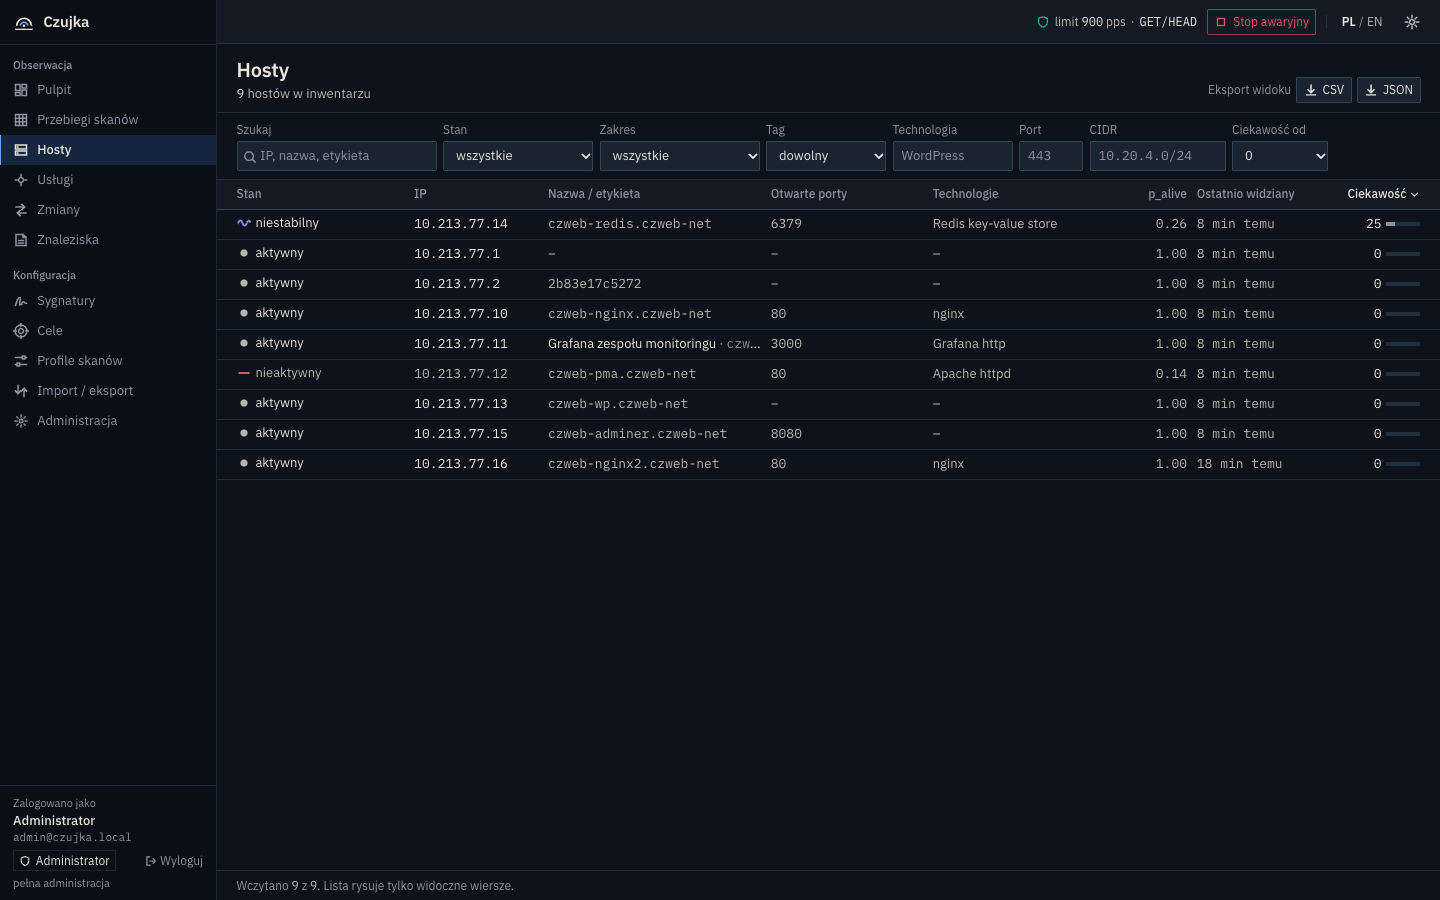
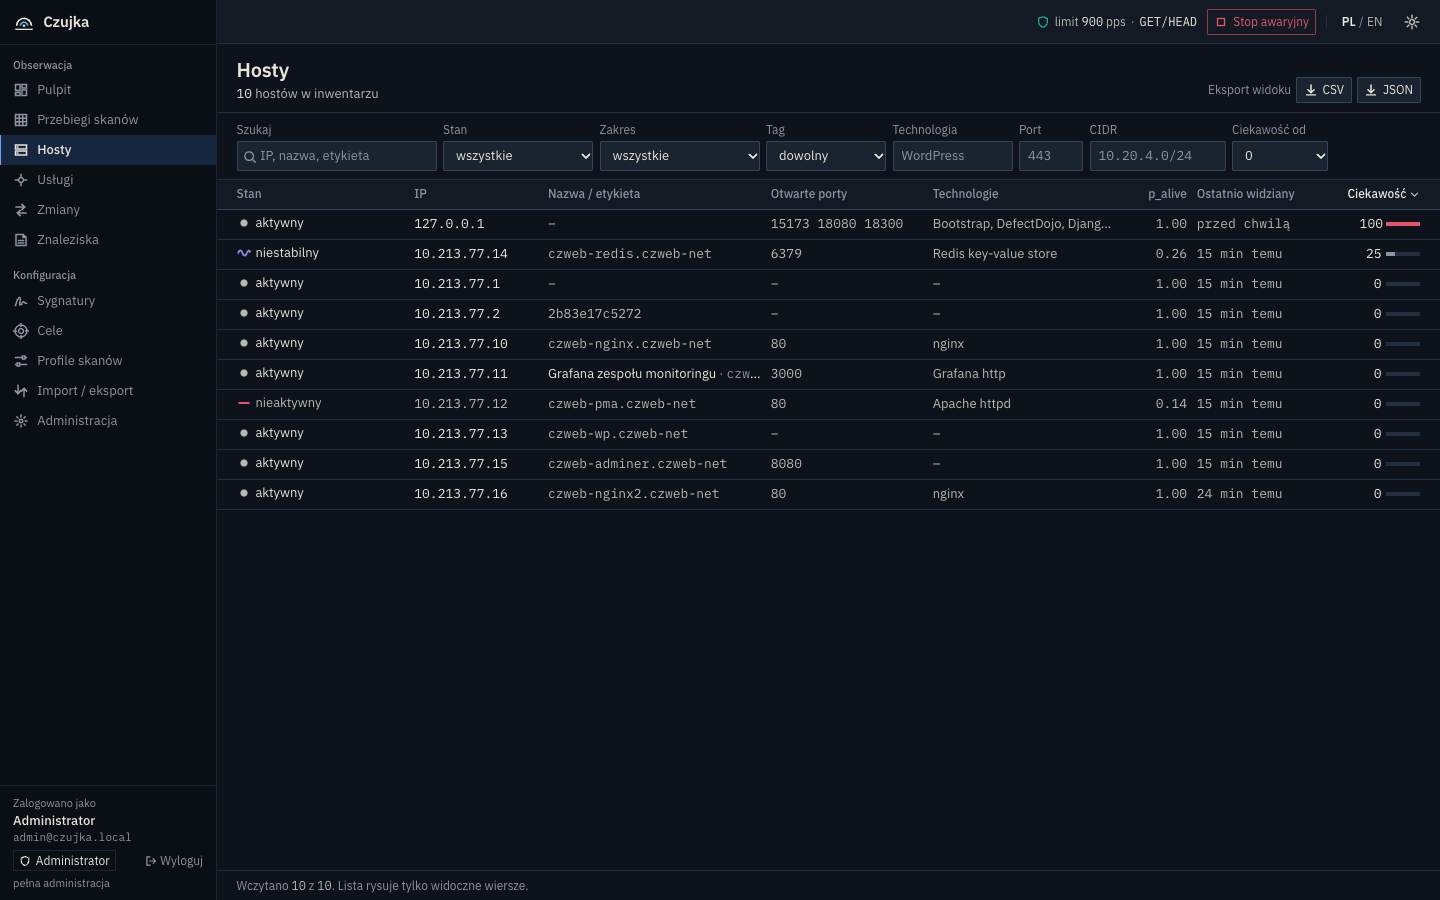
docs(web): report the real-backend pass and add live run screenshots
Adds REPORT-REAL-BACKEND.md with the flow results, the backend mismatch list and the SSE checks. README describes the fixture build guard and the run against a real server.

diff --git a/web/REPORT-REAL-BACKEND.md b/web/REPORT-REAL-BACKEND.md
@@ -1,0 +1,136 @@
+# Worker report: web UI against the real backend
+
+Task `task_ba5d4b9c9519`, branch `iwosmu/czujka-web`, 2026-11-21. All edits are in `web/`. No Go file and no `internal/model` field was changed.
+
+## 1. Stack I ran
+
+| Part | Value |
+| --- | --- |
+| Database | container `czweb-pg` (image `czujka-db:17`), 127.0.0.1:55472 |
+| Server | `czujka serve` on 127.0.0.1:18300, UI served from `web/dist` through `CZUJKA_WEB_DIR` |
+| Dev server | Vite on 127.0.0.1:15173 with `CZUJKA_DEV_API=http://127.0.0.1:18300` (`npm run dev:api`) |
+| Lab | docker network `czweb-net` (10.213.77.0/24): nginx, Grafana, phpMyAdmin, WordPress, Redis, later adminer and a second nginx |
+| DefectDojo | the shared lab instance on 127.0.0.1:18080. It was stopped by its owner during my run, so I started it again and stopped it at the end |
+
+Backend builds. The coordinator branch at my first merge had an empty `wire()`, so import, export and DefectDojo answered 501. I did not edit Go code. I built the server from the integrator branch instead:
+
+- `iwosmu/czujka-core@529fd8c`: every flow in section 3 except the live run. Engine not wired in this build.
+- `iwosmu/czujka-core@69919c4`: the live run and SSE checks in section 4. Engine wired (`/healthz` gives `engine:true`, nmap connect mode).
+
+## 2. Real data, product paths only
+
+- Users for editor, analyst and viewer, one custom role and two more users: created in the Admin UI.
+- Scope "Laboratorium docker czweb" with targets as text (CIDR, range, domain, two bad lines) and as a CSV file (dry run, then import).
+- Five imports of real `nmap -sV -oX` output of my docker network, run from a container on that network. Between the scans I stopped Redis and phpMyAdmin and started adminer and a second nginx. Result: host_new, service_new, host_unstable, host_gone changes and findings.
+- Two engine runs of `127.0.0.1` only (own scope and profile, 8 ports). Result: 3 HTTP services with fingerprints, 7 findings from signatures.
+- 4 findings exported to the live DefectDojo (ids 63 to 66).
+
+## 3. Flows against the real API
+
+Playwright, real forms, server on 18300. "pass" means the UI did the action and the API state or the next page confirmed it.
+
+| # | Flow | Result |
+| --- | --- | --- |
+| 1 | Login with the real form, wrong password message | pass |
+| 2 | Lockout: 4 wrong passwords give the normal message, the 5th and later give the lockout message (429), the right password stays blocked, login works after the lockout time | pass |
+| 3 | Logout, then a protected URL goes to /login | pass |
+| 4 | Session expiry (cookie removed): next click goes to /login with the notice, login returns to the same page | pass after fix (the UI looped on `/me` before) |
+| 5 | CSRF: request without a token gets 403 with a clear message; stale token (login in a second tab) is refreshed and the edit is repeated once (403 then 200) | pass |
+| 6 | Hosts: search, port filter, CIDR filter, sort | pass |
+| 7 | Services: search, port filter, sort, groups view | pass |
+| 8 | Changes: kind filter, acked filter, acknowledge one, acknowledge two in bulk | pass |
+| 9 | Findings: manual finding, detail drawer, status edit, bulk assign, delete | pass after fix (a refetch of the deleted finding gave 404) |
+| 10 | Host edit: label, owner, note; OS override shown as "scanner observed / analyst set" with author and time; revert | pass |
+| 11 | Service edit: version override, survives reload, revert | pass |
+| 12 | Targets: text preview with valid, invalid and excluded counts; CSV dry run; import | pass |
+| 13 | Profile create and edit, window preset in the window picker, save | pass |
+| 14 | Estimate | pass on 69919c4; calm "funkcja niedostępna" on 529fd8c |
+| 15 | Results import (nmap XML), import report | pass |
+| 16 | Exports: hosts, services, findings, changes as CSV and JSON, run as nmap XML, view export from a list. 10 files downloaded and opened | pass |
+| 17 | Users: create, role select | pass |
+| 18 | Roles: custom role in the permission matrix, add a permission, save, log in with it | pass |
+| 19 | Audit log: search filter, paging | pass |
+| 20 | Safety policy: change pps and exclusions, top bar shows the new limit, target preview counts the excluded address | pass |
+| 21 | Emergency stop and release, banner | pass. Start of a scan during the stop was only seen with the engine not wired (501) |
+| 22 | DefectDojo: settings save, stored key is never shown again, test with a wrong address, test with the live instance ("Połączono z DefectDojo 3.5.202 jako admin") | pass |
+| 23 | DefectDojo export: 4 new findings, links in the list; calm message when DefectDojo is down (502) | pass |
+| 24 | Signature editor validation | pass on 69919c4; calm 501 state on 529fd8c |
+| 25 | Start a scan from the UI, live run page | pass on 69919c4, see section 4 |
+| 26 | Vite dev server through the proxy: login, pages, SSE | pass |
+
+Roles. For each role I compared what the UI shows with direct API calls made from the same session.
+
+| Role | UI | API made anyway |
+| --- | --- | --- |
+| viewer | no edit, ack, add, start, import or export control; no Import/eksport nav item; Admin shows roles and safety read-only | 403 on users, audit, export, PATCH host, ack, findings, scopes, profiles, runs, safety, signatures |
+| analyst | edits hosts, services, findings; can start a scan and export; no add finding, no targets, no profile edit, no import | 200 on export and PATCH host; 403 on findings create and delete, scopes, profiles, users, safety |
+| editor | everything except users, roles, audit, safety | 403 only on users and safety |
+| custom "Dyżurny zmian" (viewer + results:update) | edit controls on hosts, no add finding, no targets | consistent |
+
+Forbidden request made anyway: while the custom-role user had the host page open, the admin removed `results:update`. The next save showed the toast "Brak uprawnień. Twoja rola nie pozwala na tę operację." and the value did not change. Screenshot `4-role-custom-forbidden-message.png`.
+
+No page crashed in any role. No console error in any run after the fixes.
+
+## 4. SSE
+
+The event names and payloads in `internal/runner/bus.go` and `internal/api` match the client. Verified at runtime:
+
+- `/events`: `run` (analyzing, completed), `change` and `finding` during imports; `run` during engine runs.
+- `/runs/{id}/events` on a finished import run: `progress`, then `done`, then the server closes.
+- `/runs/{id}/events` on a real engine run of 127.0.0.1 (44 s): 49 `progress`, 1 `host` (`{ip, up, services}`), 1 `chunk`, 1 `done`. The run page went from "w toku" to "zakończony" with no reload: `22-live-run-a.png`, `22-live-run-finished-no-reload.png`.
+- Both streams also work through the Vite proxy.
+
+Client change: the run stream closes on `done`. The server closes it too, and a native EventSource would reconnect every 3 s.
+
+Not verified: pause, resume and cancel of a live run from the UI; a run that waits for a time window; a run with many chunks on the Hilbert map; a scheduled run; emergency stop while a scan runs.
+
+## 5. Backend mismatches
+
+Format: route, what it returns, what the contract says.
+
+1. backend: any route with a slice field, for example `GET /profiles` of the seeded default profile. Returns `"windows": null`. The contract type is an array. The UI now turns `null` into `[]` for known array fields (`src/api/normalize.ts`). Before that `/profiles` and `/profiles/1` crashed.
+2. backend: `GET /settings/safety` and `GET /dashboard`. Return `updated_at: "0001-01-01T00:00:00Z"` when the policy was never saved. The contract says a timestamp; an absent value should be omitted or null. The UI shows no date for a year before 1971.
+3. backend: `GET /hosts/{id}/availability`. Returns `down_after_misses: 0` for a host that is already `down` (2 for other hosts). The contract says the threshold of the model. The UI shows "–" for 0.
+4. backend: `POST /roles` with the name "Dyżurny zmian". Returns slug `dy-urny-zmian`. Polish letters should be transliterated.
+5. backend: `POST /runs` with the emergency stop active on 529fd8c. Returns 501 `not_wired`. The contract says 409 `emergency_stop`. Not checked again on 69919c4.
+6. backend: `POST /import/results` with nmap XML. A known host that is absent from the file does not count as a miss, so a plain second import never produces host_gone. Only `nmap -v` output with explicit `state="down"` hosts does. Those down hosts are also counted as "skipped rows" in the import report (8 skipped), although the analysis uses them.
+7. backend: `GET /services` after a host went `down`. The service of that host stays `state: open` (10.213.77.12:80). The contract has `closed`/gone states for this.
+8. backend: `GET /runs/{id}/events` for a paused run (code reading, not runtime). Sends `done` and closes. The UI follows the global `run` event to notice the resume.
+9. backend: emergency stop pauses runs (CORE_REPORT), the UI dialog says scans are stopped. Wording, not verified at runtime.
+10. backend, 529fd8c only: `POST /signatures/validate`, `/signatures/retrohunt`, `POST /signatures`, `POST /profiles/{id}/estimate`, `POST /runs` answered 501. Validate, estimate and runs work on 69919c4. Retro-hunt and signature save were not checked again.
+
+## 6. UI fixes in this task
+
+- Fixture layer: `__CZUJKA_FIXTURES__` is a compile-time constant, true only in the dev server with `VITE_FIXTURES=1`. `vite build` with `VITE_FIXTURES=1` fails. `scripts/check-bundle.mjs` fails the build when a fixture marker is in `dist`. Nothing was removed from `src/fixtures`.
+- CSP: the inline theme script moved to `public/boot.js` (the server CSP forbids inline scripts).
+- `null` arrays normalised; Go zero time treated as "no date".
+- 501 `not_wired`: calm "Funkcja niedostępna w tej instalacji" state in pages, panels and toasts, no retry loop.
+- Error messages by status and code: 401, 403, CSRF, 404, 409, emergency stop, 422, 429, 502-504, network.
+- Session expiry: no `/me` loop, notice on the login page, return to the same page. Stale CSRF token: one refresh and one retry.
+- Login: lockout message for 429.
+- Error boundary around each page.
+- First run: dashboard with three steps (targets, profile, first scan) and the import alternative; empty lists of hosts, services, changes and findings link to scans and to the import.
+- Small: plural for excluded addresses, no "0 wierszy" footer under an empty list, threshold display for a down host.
+
+## 7. Screenshots
+
+`web/screenshots/real/`, 81 files, all from the real server, 1440x900 unless the name starts with `m-` (390x844). I looked at the main pages: dashboard (empty, with data, light, English, mobile), runs, live run, run detail, hosts, host detail (active and gone), services, service detail with HTTP fingerprint, changes, compare, findings, DefectDojo export, targets, profiles, transfer, admin tabs, emergency stop, role views, login states.
+
+Groups: `00*` login states, `01`-`15-empty*` fresh database, `08`-`17` configuration and admin, `20`-`31` real data, `4-role-*` per role, `m-*` mobile.
+
+## 8. Checks
+
+| Check | Result |
+| --- | --- |
+| `npm run typecheck` | pass |
+| `npm run lint` | pass |
+| `npm test` | 16 tests pass |
+| `npm run build` (tsc, vite build, check-bundle) | pass |
+| `VITE_FIXTURES=1 vite build` | fails as designed |
+| `go build ./...`, `go vet ./...`, `go test ./...`, `go build -tags embedui ./...` | pass |
+
+## 9. Left
+
+- The flows listed as not verified in section 4.
+- English copy was checked on the dashboard only. Mobile was checked on five pages.
+- The ten backend items in section 5.

diff --git a/web/README.md b/web/README.md
@@ -6,24 +6,35 @@ Interfejs analityka dla Czujki. React 19, TypeScript, Vite, React Router, TanSta
 
 ```sh
 npm install
-npm run dev            # wymaga działającego backendu pod /api/v1 (ten sam origin albo proxy Vite)
+npm run dev            # wymaga działającego backendu pod /api/v1 (proxy Vite, domyślnie http://127.0.0.1:8080)
+CZUJKA_DEV_API=http://127.0.0.1:18300 npm run dev:api   # to samo, z adresem backendu podanym wprost
 npm run dev:fixtures   # tryb deweloperski bez backendu, dane z warstwy fixtures
 npm run typecheck
 npm run lint
 npm test
-npm run build          # wynik w web/dist
+npm run build          # tsc, vite build i kontrola paczki; wynik w web/dist
 ```
 
 Binarka Go osadza `web/dist` przy budowaniu z tagiem `embedui` (`embed.go`). Bez tagu używany jest `noembed.go`, więc `go build ./...` działa także bez zbudowanego interfejsu.
 
 ## Warstwa fixtures
 
-- Włączana tylko przez `VITE_FIXTURES=1` w trybie deweloperskim (`import.meta.env.DEV`). Nie trafia do paczki produkcyjnej.
+- Włączana tylko przez `VITE_FIXTURES=1` w serwerze deweloperskim. Stała `__CZUJKA_FIXTURES__` jest ustawiana przy kompilacji i w każdym buildzie ma wartość `false`, więc kod warstwy nie trafia do paczki.
+- `npm run build` z `VITE_FIXTURES=1` kończy się błędem. Po buildzie `scripts/check-bundle.mjs` przeszukuje `dist` i przerywa build, gdy znajdzie ślad warstwy fixtures.
 - Podmienia transport klienta API i źródło zdarzeń SSE. Odpowiada na wszystkie ścieżki z `docs/API.md` i symuluje postęp trwającego skanu.
 - Dane opisują fikcyjną sieć uczelni (ok. 400 hostów, 700 usług). Stan wraca do początku po przeładowaniu strony.
 - Konta: `admin@cbi.example`, `editor@cbi.example`, `analyst@cbi.example`, `viewer@cbi.example`, hasło `czujka`.
 
-Wszystkie zrzuty w `screenshots/` pochodzą z tego trybu. Interfejs nie był jeszcze uruchamiany z prawdziwym backendem.
+Zrzuty bezpośrednio w `screenshots/` pochodzą z tego trybu. Zrzuty w `screenshots/real/` pochodzą z prawdziwego serwera i prawdziwych danych (import nmap, skan `127.0.0.1`, DefectDojo).
+
+## Praca z prawdziwym backendem
+
+- Serwer podaje zbudowany interfejs z katalogu wskazanego przez `CZUJKA_WEB_DIR` (na przykład `web/dist`) albo z paczki osadzonej tagiem `embedui`.
+- Polityka CSP serwera nie pozwala na skrypty inline. Motyw i język przed pierwszym renderem ustawia plik `public/boot.js`.
+- Klient zamienia `null` na pustą listę dla znanych pól tablicowych (`src/api/normalize.ts`), bo Go zapisuje pusty slice jako `null`.
+- Odpowiedź `501 not_wired` daje spokojny stan „Funkcja niedostępna w tej instalacji”. Pozostałe kody błędów mają własne komunikaty (`explainError` w `src/ui/kit.tsx`).
+- Po wygaśnięciu sesji interfejs wraca na stronę logowania z informacją i po zalogowaniu otwiera tę samą stronę. Nieaktualny token CSRF jest odświeżany raz i żądanie jest powtarzane.
+- Wynik przejścia wszystkich przepływów i lista niezgodności backendu: `REPORT-REAL-BACKEND.md`.
 
 ## Struktura
 
